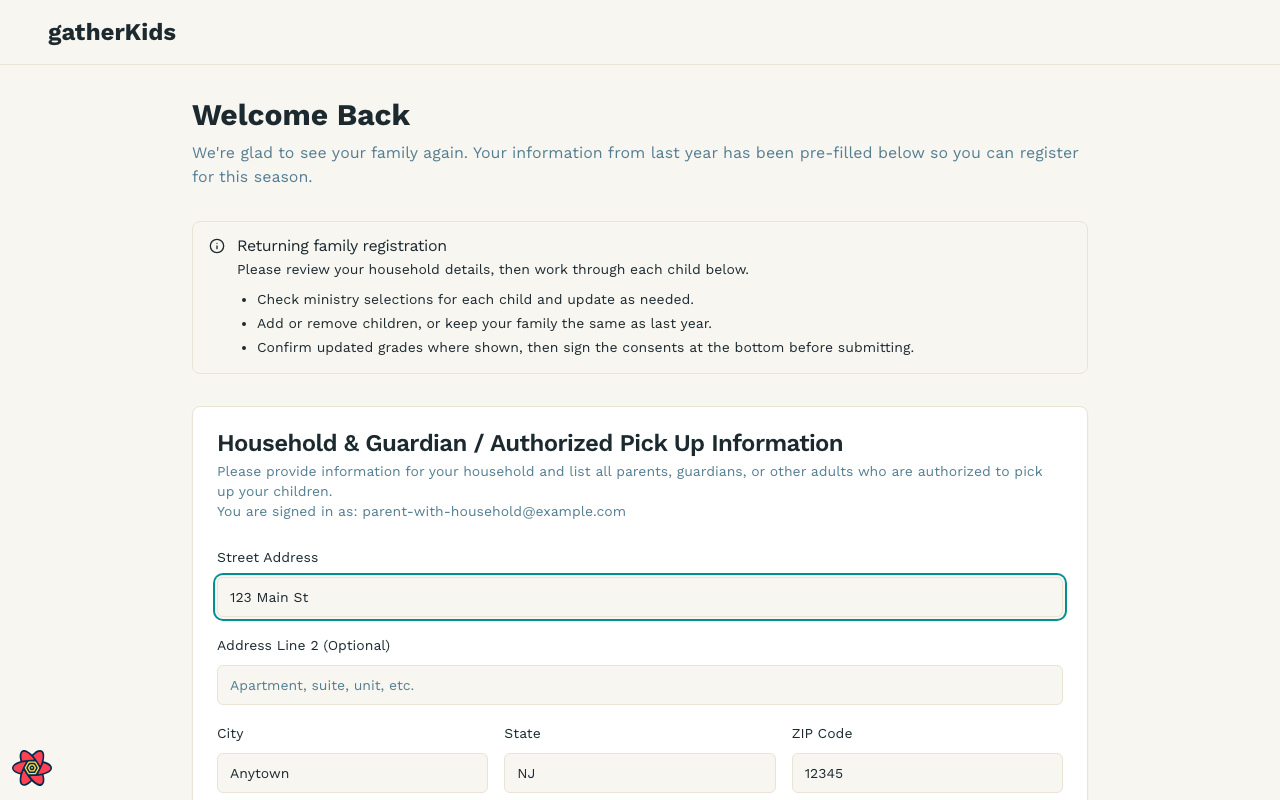
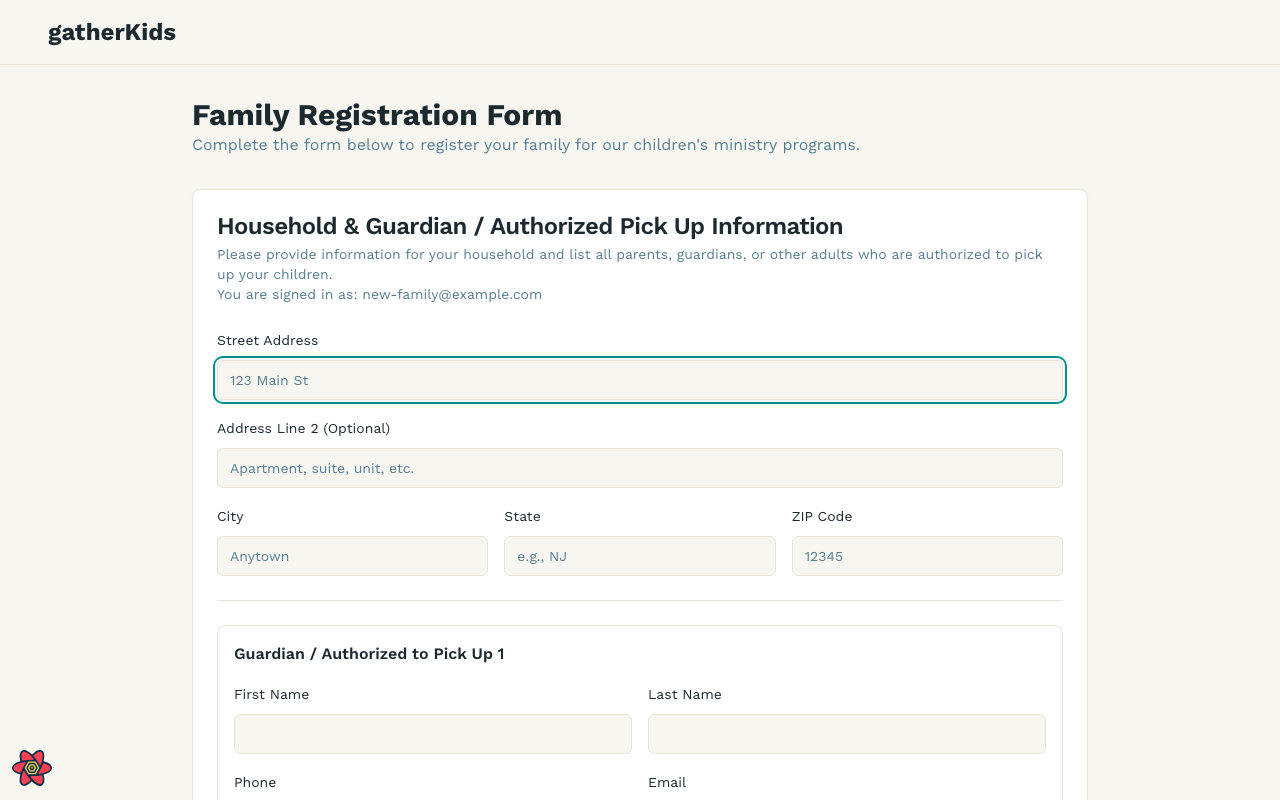
fix(help): split family screenshots and add About gatherKids footer
Capture the empty new-family form separately from Welcome Back, add household child-edit and Bible Bee progress shots, and link the main app footer to /help.

diff --git a/src/app/page.tsx b/src/app/page.tsx
@@ -6,6 +6,7 @@ import { Button } from '@/components/ui/button';
 import { ArrowRight, Church, Youtube, Instagram } from 'lucide-react';
 import { useFeatureFlags } from '@/contexts/feature-flag-context';
 import { useBranding } from '@/contexts/branding-context';
+import { AppFooter } from '@/components/app-footer';
 
 export default function Home() {
 	const { flags } = useFeatureFlags();
@@ -35,11 +36,7 @@ export default function Home() {
 						</div>
 					</div>
 				</main>
-				<footer className="py-6 border-t">
-					<div className="container mx-auto flex justify-between items-center text-sm text-muted-foreground">
-						<div className="h-4 w-48 bg-muted animate-pulse rounded" />
-					</div>
-				</footer>
+				<AppFooter appName={settings.app_name || 'gatherKids'} />
 			</div>
 		);
 	}
@@ -146,14 +143,7 @@ export default function Home() {
 					)}
 				</div>
 			</main>
-			<footer className="py-6 border-t">
-				<div className="container mx-auto flex justify-between items-center text-sm text-muted-foreground">
-					<p>
-						&copy; {new Date().getFullYear()}{' '}
-						{settings.app_name || 'gatherKids'}. All rights reserved.
-					</p>
-				</div>
-			</footer>
+			<AppFooter appName={settings.app_name || 'gatherKids'} />
 		</div>
 	);
 }

diff --git a/src/app/login/page.tsx b/src/app/login/page.tsx
@@ -31,6 +31,7 @@ import { AuthRole } from '@/lib/auth-types';
 import { supabase } from '@/lib/supabaseClient';
 import { getPostLoginRoute } from '@/lib/auth-utils';
 import { resolveGuardianPostLoginRoute } from '@/lib/dal';
+import { AppFooter } from '@/components/app-footer';
 
 export default function LoginPage() {
 	const router = useRouter();
@@ -303,14 +304,7 @@ export default function LoginPage() {
 					</CardContent>
 				</Card>
 			</main>
-			<footer className="py-6 border-t mt-auto">
-				<div className="container mx-auto flex justify-between items-center text-sm text-muted-foreground">
-					<p>
-						&copy; {new Date().getFullYear()}{' '}
-						{settings.app_name || 'gatherKids'}. All rights reserved.
-					</p>
-				</div>
-			</footer>
+			<AppFooter appName={settings.app_name || 'gatherKids'} />
 		</div>
 	);
 }

diff --git a/src/app/register/layout.tsx b/src/app/register/layout.tsx
@@ -4,6 +4,7 @@ import React from 'react';
 import Image from 'next/image';
 import { useBranding } from '@/contexts/branding-context';
 import { useRouter } from 'next/navigation';
+import { AppFooter } from '@/components/app-footer';
 
 export default function RegisterLayout({
 	children,
@@ -55,13 +56,7 @@ export default function RegisterLayout({
 			<main id="main-content" className="flex-1 container mx-auto p-4 md:p-6 lg:p-8">
 				{children}
 			</main>
-			<footer className="py-6 border-t mt-auto">
-				<div className="container mx-auto flex justify-between items-center text-sm text-muted-foreground">
-					<p>
-						&copy; {new Date().getFullYear()} gatherKids. All rights reserved.
-					</p>
-				</div>
-			</footer>
+			<AppFooter appName={settings.app_name || 'gatherKids'} />
 		</div>
 	);
 }

diff --git a/src/components/app-footer.tsx b/src/components/app-footer.tsx
@@ -1,0 +1,20 @@
+'use client';
+
+import Link from 'next/link';
+
+export function AppFooter({ appName = 'gatherKids' }: { appName?: string }) {
+	return (
+		<footer className="py-6 border-t mt-auto">
+			<div className="container mx-auto flex flex-col gap-2 sm:flex-row sm:justify-between sm:items-center text-sm text-muted-foreground px-4">
+				<p>
+					&copy; {new Date().getFullYear()} {appName}. All rights reserved.
+				</p>
+				<Link
+					href="/help"
+					className="hover:text-foreground underline-offset-4 hover:underline">
+					About gatherKids
+				</Link>
+			</div>
+		</footer>
+	);
+}

diff --git a/src/app/household/layout.tsx b/src/app/household/layout.tsx
@@ -216,8 +216,12 @@ function HouseholdLayoutContent({ children }: { children: React.ReactNode }) {
 								))}
 							</SidebarMenu>
 						</SidebarContent>
-						<SidebarFooter>
-							{/* Footer content can go here if needed in the future */}
+						<SidebarFooter className="p-2 flex justify-center">
+							<Link
+								href="/help"
+								className="text-xs text-muted-foreground hover:text-foreground underline-offset-4 hover:underline">
+								About gatherKids
+							</Link>
 						</SidebarFooter>
 					</Sidebar>
 					<SidebarInset>

diff --git a/src/app/(admin)/layout.tsx b/src/app/(admin)/layout.tsx
@@ -226,7 +226,12 @@ function DashboardLayoutContent({ children }: { children: React.ReactNode }) {
 								))}
 							</SidebarMenu>
 						</SidebarContent>
-						<SidebarFooter className="p-2 flex justify-center">
+						<SidebarFooter className="p-2 flex flex-col items-center gap-2">
+							<Link
+								href="/help"
+								className="text-xs text-muted-foreground hover:text-foreground underline-offset-4 hover:underline">
+								About gatherKids
+							</Link>
 							<AppVersionBadge />
 						</SidebarFooter>
 					</Sidebar>

diff --git a/content/help/user-guide/registration/household-management.md b/content/help/user-guide/registration/household-management.md
@@ -23,7 +23,21 @@ Each child’s **Program Enrollments & Interests** section uses an accordion, on
 - Older years stay collapsed so you can compare without losing history.
 - “No program enrollments or interests listed for this year” means that child was not signed up for ministries in that cycle.
 
+## Bible Bee progress for your children
+
+If a child is enrolled in Bible Bee, **Bible Bee** appears in the household sidebar.
+
+1. Sign in and open **Household**.
+2. Choose **Bible Bee** in the sidebar.
+3. Each enrolled child has a progress card. Open a card for scriptures and assignments.
+
+![Household Bible Bee progress](/help/screenshots/household-bible-bee-progress.png)
+
+Leaders use a different Bible Bee screen. See [Progress tracking](/help/user-guide/bible-bee/progress-tracking).
+
 ## Updating information
+
+Use **Edit** on a child card to change name, grade, or medical notes without going back through registration. See [Child profiles](/help/user-guide/registration/child-profiles).
 
 Use registration while the cycle is open to correct address, children, or enrollments. After you have submitted for the active cycle, the household page is the place to review what ministry leaders will see at check-in.
 

diff --git a/docs/HELP_DOCS.md b/docs/HELP_DOCS.md
@@ -49,10 +49,11 @@ The script:
 Accounts (local seed / capture script):
 
 - Admin: `admin@example.com` / `TestPassword123!`
+- New-family guardian (no household link): `new-family@example.com`
 - Returning guardian (Smith household, no current-cycle registration): `parent-with-household@example.com`
 - Household guardian (Johnson household, current-cycle registrations + prior-year enrollments): `household-complete@example.com`
 
-The capture script seeds a prior registration cycle, Johnson `registrations` rows, Bible Bee divisions/scriptures/enrollments, and the auth users above. It **fails** if Welcome Back, Children Information, household accordion, or populated Bible Bee UI is missing — it does not save a blank or wrong screen.
+The capture script seeds a prior registration cycle, Johnson `registrations` rows, Bible Bee divisions/scriptures/enrollments, and the auth users above. It **fails** if Family Registration Form, Welcome Back, Children Information, household accordion, Edit Child, or populated Bible Bee UI is missing — it does not save a blank or wrong screen.
 
 Reviewer: spot-check every committed PNG for PII before merge.
 

diff --git a/content/help/user-guide/registration/child-profiles.md b/content/help/user-guide/registration/child-profiles.md
@@ -7,14 +7,17 @@ description: What to include on each child’s gatherKids profile.
 
 Every child in the household has a profile used for ministry placement, check-in, and safety.
 
-## Basic information
+## During registration
 
-- First and last name
-- Date of birth (used for age-appropriate ministries)
-- Grade
-- Optional photo to help leaders identify children at check-in
+When you first register, each child is a section on the **Family Registration Form**. Expand **Children Information** to enter name, date of birth, grade, and safety notes.
 
-![Child profile fields](/help/screenshots/registration-child-profile.png)
+![Child fields on the registration form](/help/screenshots/registration-child-profile.png)
+
+## After registration (household)
+
+After you submit, open **Household** and choose **Edit** on a child’s card. That dialog is where you update the same details later, without filling out registration again.
+
+![Edit child dialog on the household page](/help/screenshots/household-edit-child-dialog.png)
 
 ## Medical and safety notes
 

diff --git a/content/help/user-guide/registration/getting-started.md b/content/help/user-guide/registration/getting-started.md
@@ -16,9 +16,11 @@ Registration collects household contacts, children, and ministry enrollments for
 5. Choose ministries (enrolled or interest-only, depending on the program).
 6. Review consents and submit.
 
-![Household registration form](/help/screenshots/registration-household-form.png)
+The form heading is **Family Registration Form**. Fields start empty because gatherKids does not already have your household.
 
-![Child details during registration](/help/screenshots/registration-child-profile.png)
+![New-family registration form](/help/screenshots/registration-household-form.png)
+
+![Child details during first-time registration](/help/screenshots/registration-child-profile.png)
 
 ## Returning families
 

diff --git a/content/help/user-guide/bible-bee/progress-tracking.md b/content/help/user-guide/bible-bee/progress-tracking.md
@@ -10,6 +10,6 @@ Progress shows which scriptures a child has worked through for the current Bible
 ![Bible Bee progress](/help/screenshots/bible-bee-progress.png)
 
 - Leaders update or review progress from Bible Bee child pages
-- Guardians may see a household Bible Bee view when the child is enrolled
+- Guardians open **Bible Bee** in the household sidebar when a child is enrolled. See [Manage your household](/help/user-guide/registration/household-management).
 
 If progress is blank, confirm the child is enrolled in the Bible Bee year and that scriptures have been assigned to their division.
